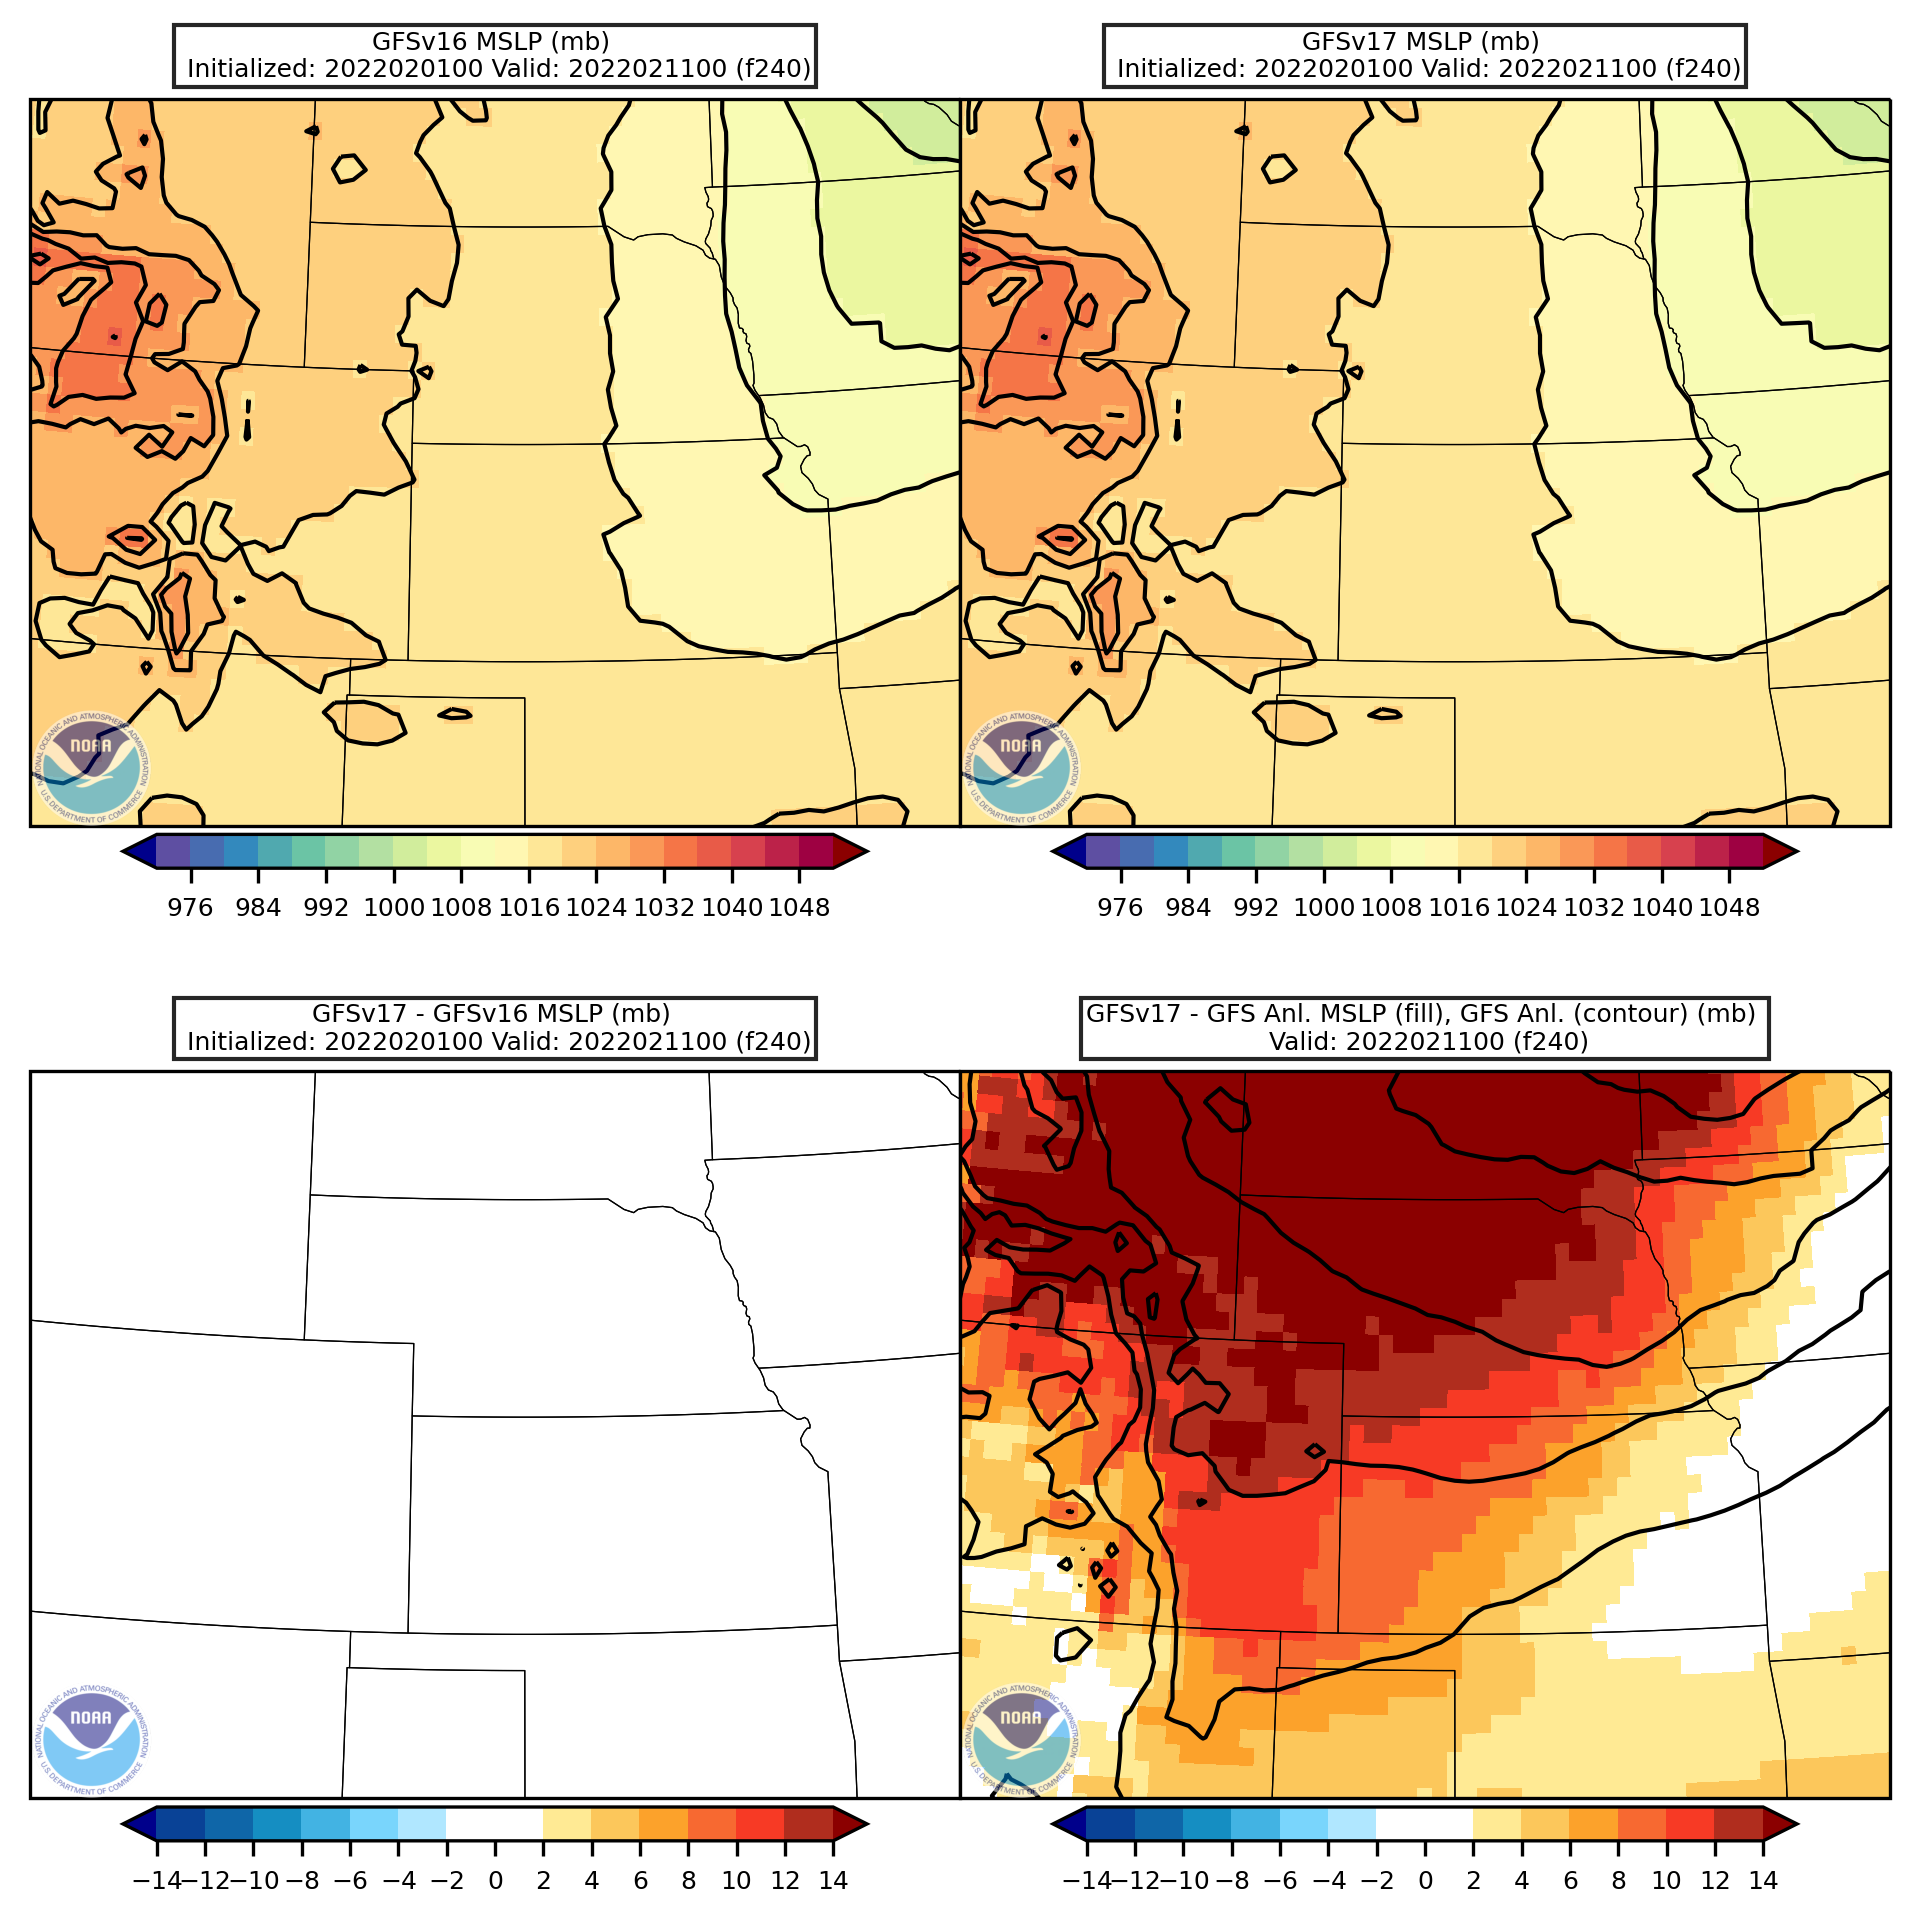
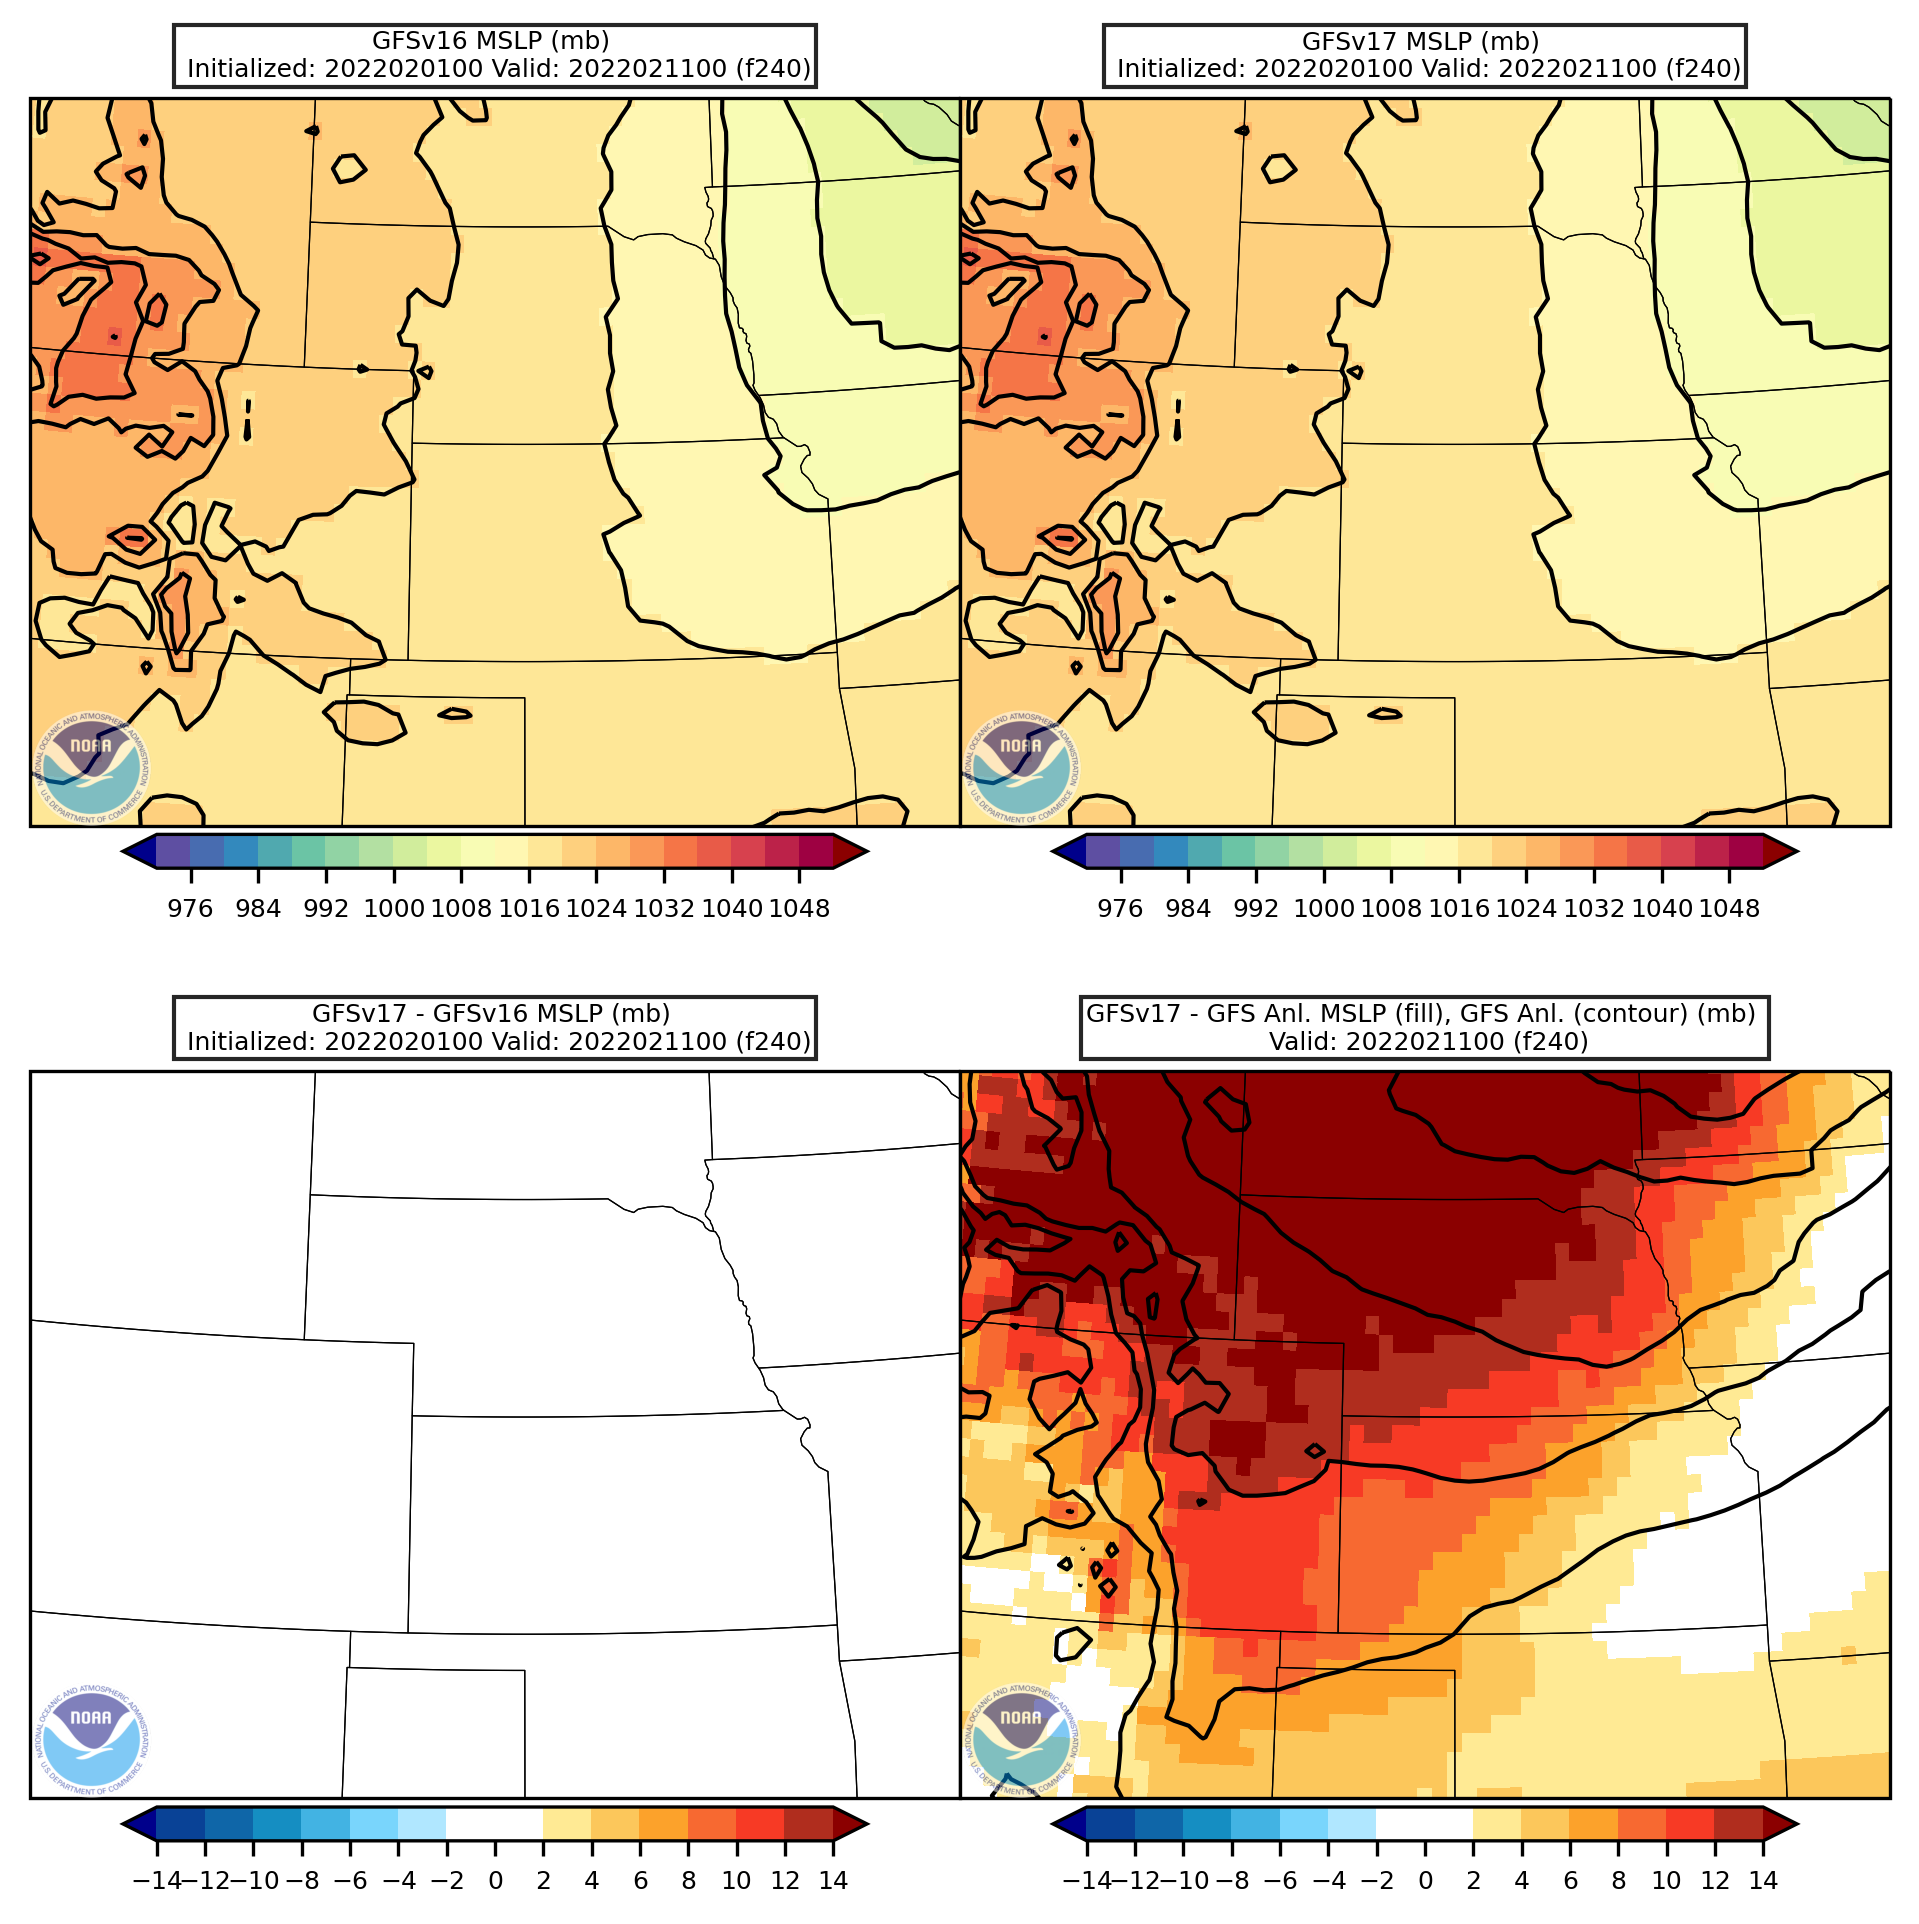
Updated plotting script so that all domains are exactly the same size

diff --git a/plot_maps/plot_gfs_slp_4panel.py b/plot_maps/plot_gfs_slp_4panel.py
@@ -333,7 +333,7 @@ def create_figure():
     llcrnrlon = -92.25
     llcrnrlat = 24.0
     urcrnrlon = -76.0
-    urcrnrlat = 35.3
+    urcrnrlat = 35.315
     cen_lat = 29.0
     cen_lon = -88.0
     xextent=-221000
@@ -358,22 +358,31 @@ def create_figure():
     yextent=52500
   elif dom == 'southcentral':
     llcrnrlon = -108.25
-    llcrnrlat = 24.05
+    llcrnrlat = 24.027
     urcrnrlon = -90.0
     urcrnrlat = 37.25
     cen_lat = 29.0
     cen_lon = -98.0
     xextent=-817500
-    yextent=-286000
+    yextent=-287000
   elif dom == 'centralplains':
     llcrnrlon = -108.25
-    llcrnrlat = 34.5
+    llcrnrlat = 34.498
     urcrnrlon = -92.75
     urcrnrlat = 44.5
     cen_lat = 38.0
     cen_lon = -100.0
     xextent=-567500
-    yextent=-183500
+    yextent=-184000
+  elif dom == 'northernplains':
+    llcrnrlon = -111.0
+    llcrnrlat = 40.425
+    urcrnrlon = -95.5
+    urcrnrlat = 49.5
+    cen_lat = 45.0
+    cen_lon = -102.0
+    xextent=-586000
+    yextent=-324500
 
 
 
